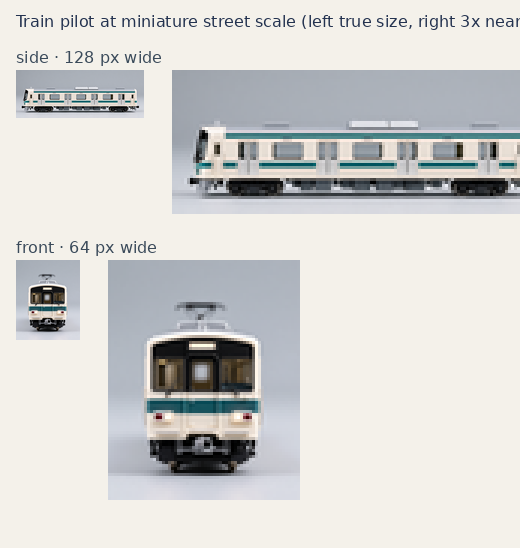
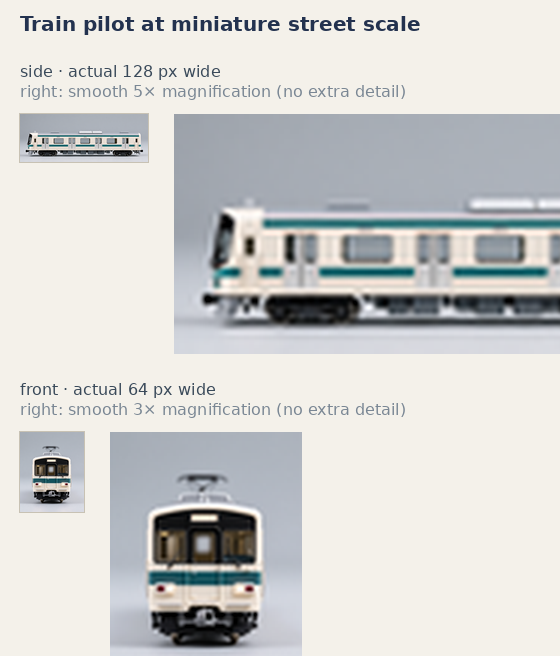
Render the train pilot at-scale check with smooth magnification

diff --git a/scripts/review-train-pilot.py b/scripts/review-train-pilot.py
@@ -123,6 +123,44 @@ def analyze(view, rgb, fg):
                 px=[int(x0), int(y0), int(x1), int(ground)])
 
 
+def at_scale():
+    """Show what each elevation looks like at its on-screen width. The right
+    copy is a smooth magnification of the left, so it reveals the detail that
+    survives downsampling without nearest-neighbour pixel blocks."""
+    picks = [('hy21-full-ortho--cab-side.png', 128, 'side · actual 128 px wide'),
+             ('hy21-full-ortho--cab-front.png', 64, 'front · actual 64 px wide')]
+    rows = []
+    for name, width, label in picks:
+        full = Image.open(PILOT / name).convert('RGB')
+        small = full.resize((width, max(1, round(full.height * width / full.width))), Image.LANCZOS)
+        zoom = max(2, min(6, round(260 / max(1, small.height))))
+        rows.append((small, small.resize((small.width * zoom, small.height * zoom), Image.LANCZOS), label, zoom))
+
+    pad, gap = 20, 26
+    text_h = 52
+    width = 560
+    height = pad + sum(text_h + r[1].height + gap for r in rows)
+    sheet = Image.new('RGB', (width, height), '#f4f1ea')
+    d = ImageDraw.Draw(sheet)
+    try: font = ImageFont.truetype('/usr/share/fonts/truetype/dejavu/DejaVuSans.ttf', 16)
+    except OSError: font = ImageFont.load_default()
+    try: big = ImageFont.truetype('/usr/share/fonts/truetype/dejavu/DejaVuSans-Bold.ttf', 20)
+    except OSError: big = font
+    d.text((pad, 12), 'Train pilot at miniature street scale', fill='#23324f', font=big)
+    y = pad + text_h - 10
+    for small, zoom_img, label, zoom in rows:
+        d.text((pad, y), label, fill='#3a4a5a', font=font)
+        d.text((pad, y + 20), f'right: smooth {zoom}× magnification (no extra detail)', fill='#7a8794', font=font)
+        ty = y + text_h
+        sheet.paste(small, (pad, ty))
+        d.rectangle([pad - 1, ty - 1, pad + small.width, ty + small.height], outline='#c8c2b4')
+        sheet.paste(zoom_img, (pad + small.width + gap, ty))
+        y = ty + zoom_img.height + gap
+    out = PILOT / 'at-scale.png'
+    sheet.save(out)
+    print('wrote', out.relative_to(ROOT))
+
+
 def main():
     rows = []
     for view in CONFIG['views']:
@@ -164,6 +202,8 @@ def main():
     out = PILOT / 'contact-sheet.jpg'
     sheet.save(out, quality=86)
     print('wrote', out.relative_to(ROOT))
+
+    at_scale()
 
     # Persist the raw metrics next to the ledger.
     (PILOT / 'review-metrics.json').write_text(json.dumps(
